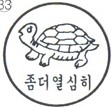
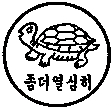
리소스 변경 -기존 도장 이미지 삭제 및 선명한 이미지로 교체

Changed region(s): [[0.0, 0.0, 1.0, 1.0], [0.1622, 0.1963, 0.9189, 0.6449], [0.0, 0.0, 0.1081, 0.1402]]

diff --git a/PowerString/ResultForm.Designer.cs b/PowerString/ResultForm.Designer.cs
@@ -118,7 +118,7 @@
             // 
             // ClearImg
             // 
-            this.ClearImg.Image = global::PowerString.Properties.Resources.welldone;
+            this.ClearImg.Image = global::PowerString.Properties.Resources.welldone1;
             this.ClearImg.Location = new System.Drawing.Point(462, 79);
             this.ClearImg.Name = "ClearImg";
             this.ClearImg.Size = new System.Drawing.Size(110, 110);
